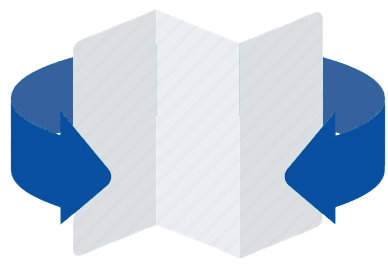
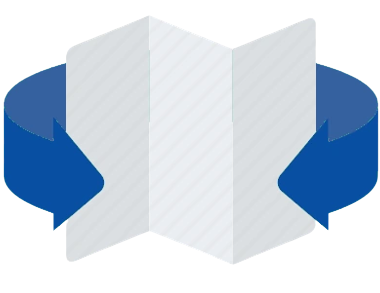
1

diff --git a/index.html b/index.html
@@ -28,7 +28,7 @@
   <body>
     <header>
       <!-- Just an image -->
-      <nav class="navbar navbar-expand-md navbar-light bg-light">
+      <nav class="navbar navbar-expand-md navbar-light bg-light" style="max-height: 45px;">
         <div class="navbar-collapse collapse w-100 order-1 order-md-0 dual-collapse2">
             <ul class="navbar-nav text-start">
                 <li class="nav-item active">
@@ -37,7 +37,7 @@
             </ul>
         </div>
         <div class="mx-auto order-0">
-            <a class="navbar-brand mx-auto title fs-4" href="#">Home</a>
+            <a class="navbar-brand mx-auto title fs-5" href="#">Home</a>
         </div>
         <div class="navbar-collapse collapse w-100 order-3 dual-collapse2">
             <ul class="navbar-nav ms-auto">
@@ -142,8 +142,8 @@
             AR Game
           </a>
           <a href="https://jimmy0905.github.io/3D/" class="btn btn-sq-responsive">
-            <img style="width: 7vh; margin-bottom: 1vw;" src="./assets/VR-Map.png" class="rounded mx-auto d-block" alt="...">
-            AR Game
+            <img style="width: 7vh;" src="./assets/VR-Map.png" class="rounded mx-auto d-block" alt="...">
+            VR Map
           </a>
         </div>
       </section>
@@ -202,6 +202,7 @@
                 <p class="card-text fw-bold">
                  低糖朱古力牛奶飲品250毫升(6包裝)
                 </p>
+                <p class="card-text"><small class="text-muted">HK$28.9</small></p>
               </div>
             </div>
           </div>
@@ -213,6 +214,7 @@
                 <p class="card-text fw-bold">
                   UHT 牛奶
                 </p>
+                <p class="card-text"><small class="text-muted">HK$18.9</small></p>
               </div>
             </div>
           </div>
